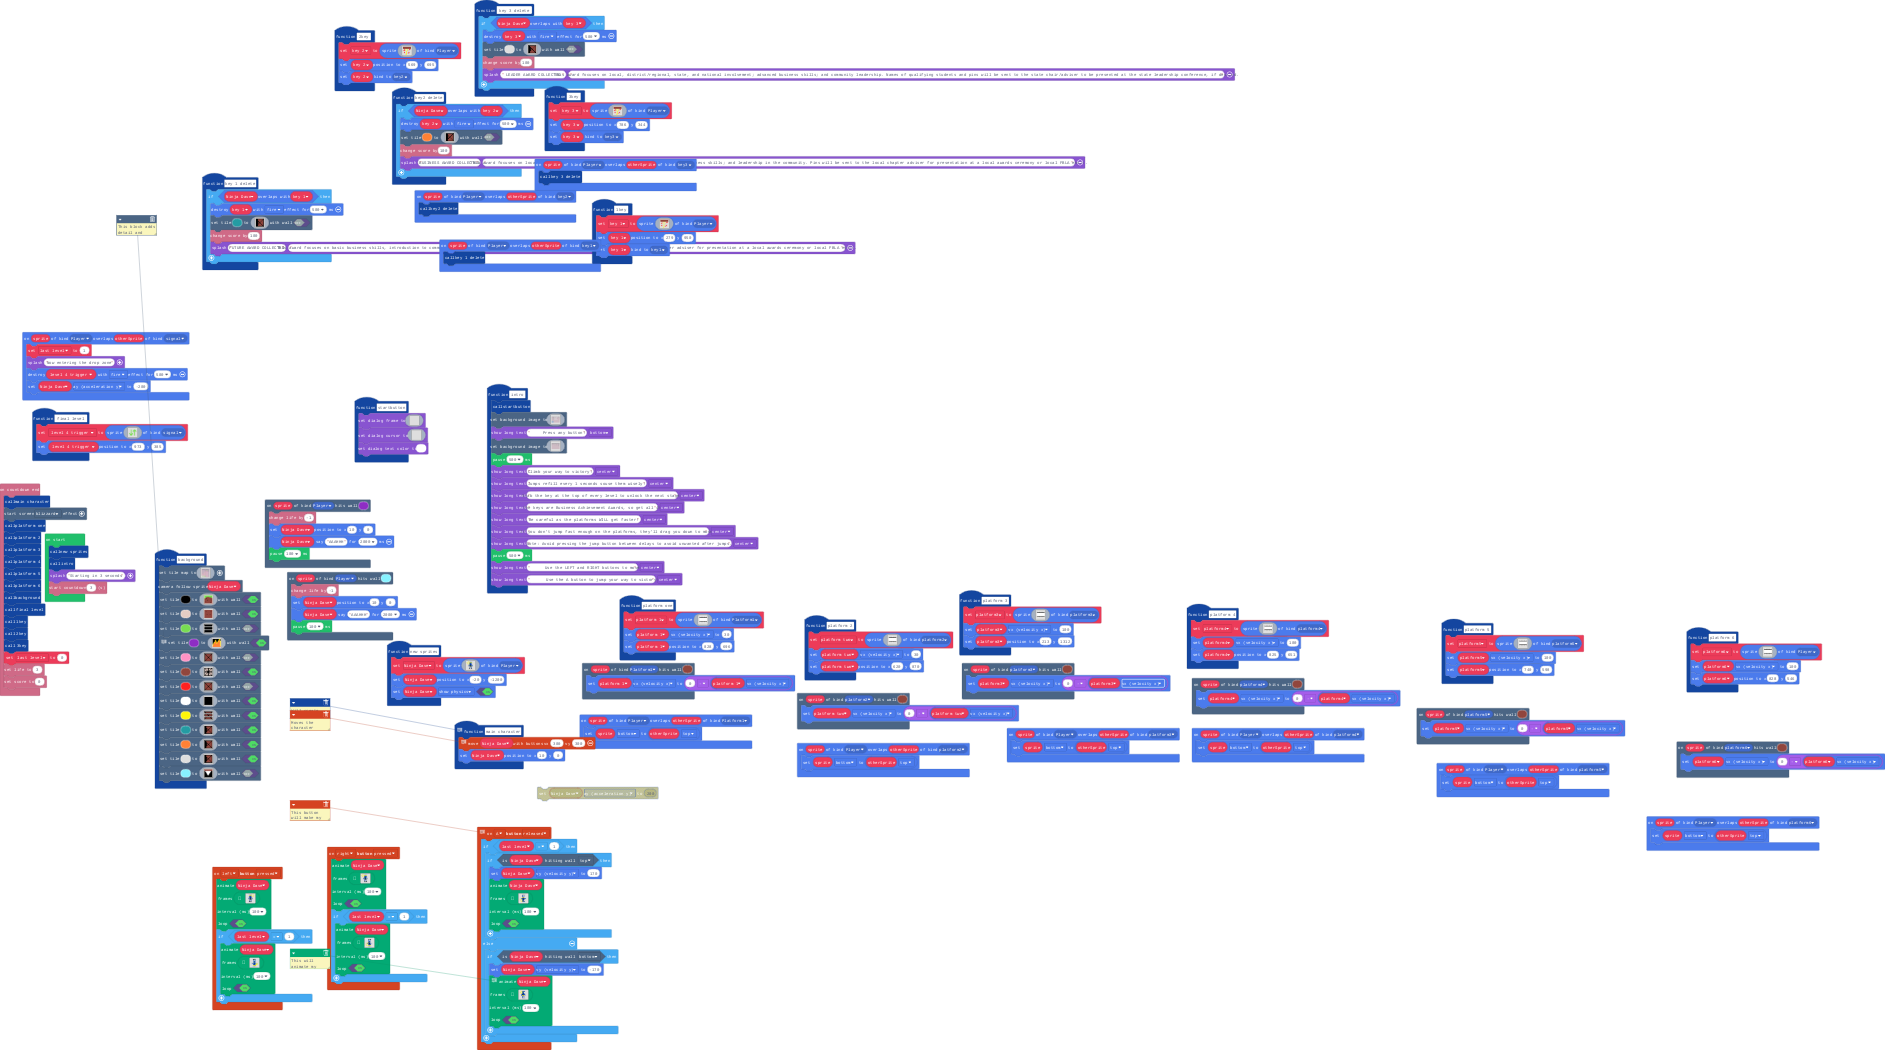
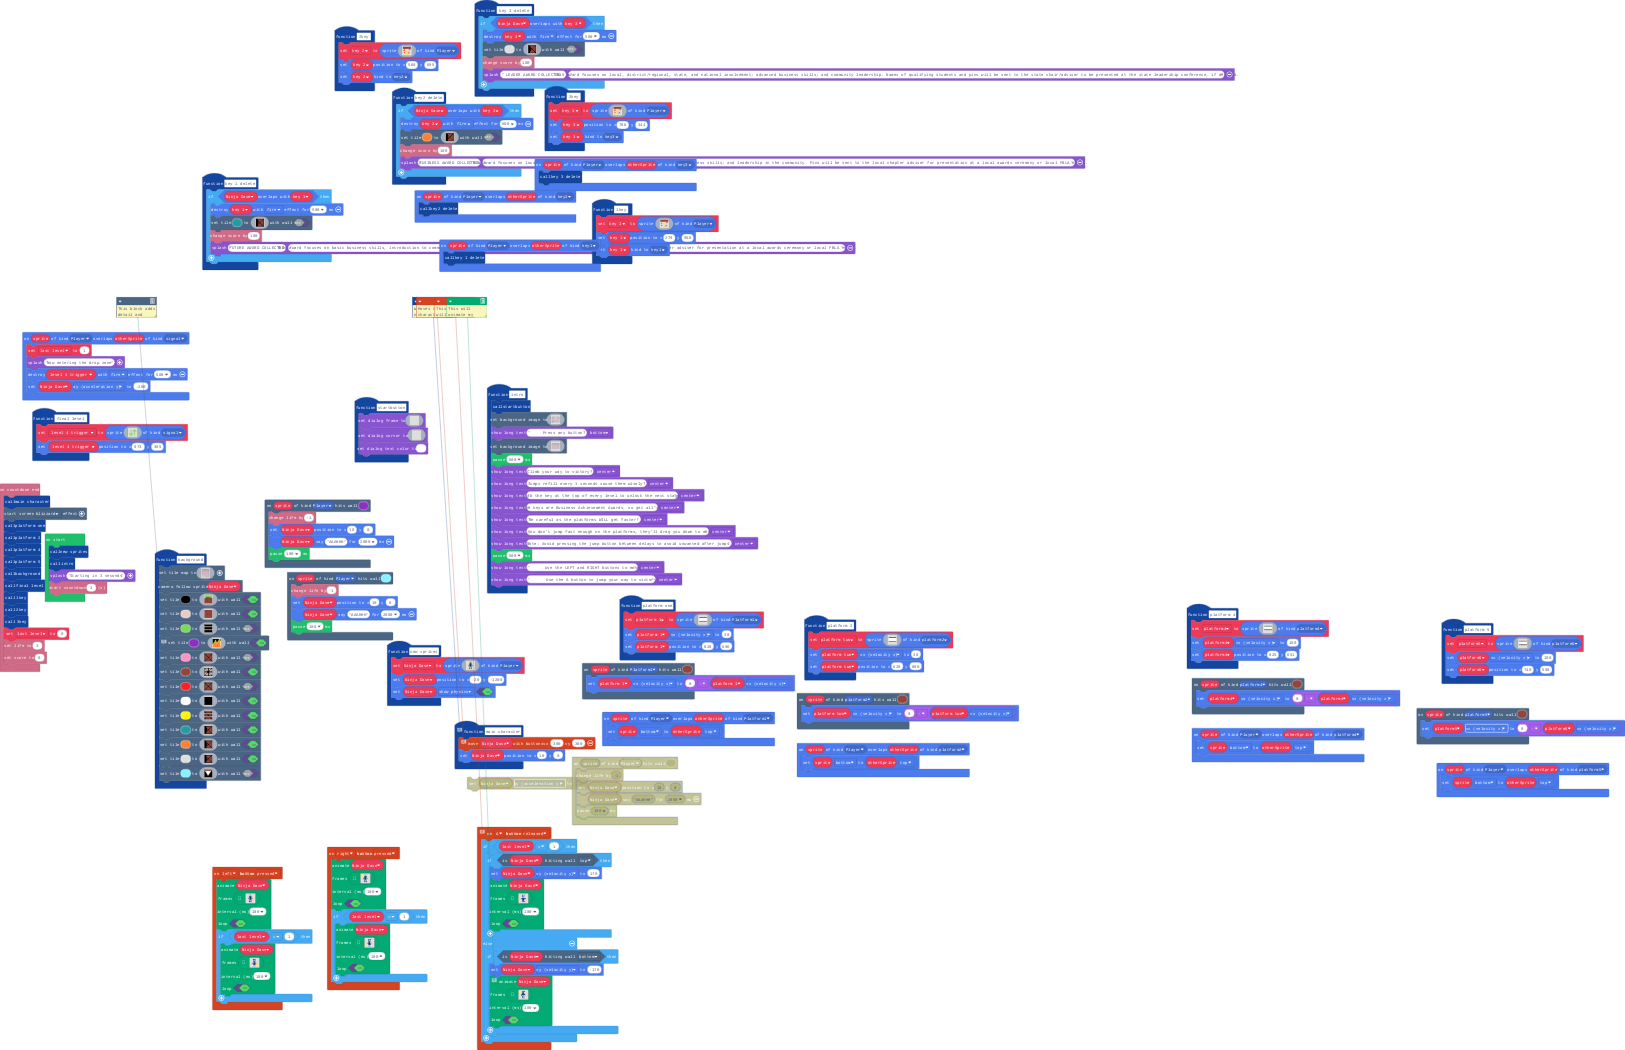
changes

diff --git a/main.ts b/main.ts
@@ -40,28 +40,6 @@ scene.onHitTile(SpriteKind.Player, 9, function (sprite) {
     Ninja_Dave.say("AAAHHH", 2000)
     pause(100)
 })
-function platform_6 () {
-    platform6 = sprites.create(img`
-. . . . . . . . . . . . . . . . 
-. . . 1 . . . . 1 . . . . 1 . . 
-. . 1 1 1 . . 1 1 1 . . 1 1 1 . 
-. f f f f f f f f f f f f f f f 
-. 1 1 1 1 1 1 1 1 1 1 1 1 1 1 1 
-. 1 1 1 1 1 1 1 1 1 1 1 1 1 1 1 
-. 1 1 1 1 1 1 1 1 1 1 1 1 1 1 1 
-. 1 1 1 1 1 1 1 1 1 1 1 1 1 1 1 
-. 1 1 1 1 1 1 1 1 1 1 1 1 1 1 1 
-. 1 1 1 1 1 1 1 1 1 1 1 1 1 1 1 
-. f f f f f f f f f f f f f f f 
-. . 1 1 1 . . 1 1 1 . . 1 1 1 . 
-. . . 1 . . . . 1 . . . . 1 . . 
-. . . . . . . . . . . . . . . . 
-. . . . . . . . . . . . . . . . 
-. . . . . . . . . . . . . . . . 
-`, SpriteKind.Player)
-    platform6.vx = 100
-    platform6.setPosition(828, 546)
-}
 sprites.onOverlap(SpriteKind.Player, SpriteKind.key3, function (sprite, otherSprite) {
     key_3_delete()
 })
@@ -165,9 +143,6 @@ f f f f f f f f f f f f f f f f
         game.splash("FUTURE AWARD COLLECTED", "This award focuses on basic business skills, introduction to community service, and FBLA involvement at the local level. Pins will be sent to the local chapter adviser for presentation at a local awards ceremony or local FBLA event.")
     }
 }
-sprites.onOverlap(SpriteKind.Player, SpriteKind.platform3, function (sprite, otherSprite) {
-    sprite.bottom = otherSprite.top
-})
 controller.left.onEvent(ControllerButtonEvent.Pressed, function () {
     animation.runImageAnimation(
     Ninja_Dave,
@@ -657,63 +632,63 @@ function background () {
 2 2 1 b b b b b b b b b b b b b b b b b b b b b b b b b b b b b b b b b b b b b b b b b b e 3 3 3 3 3 3 . 3 3 3 3 3 3 3 3 3 3 3 3 3 3 3 3 3 3 3 3 3 e b c c c c c c b b b b b b b b c c c c c b b b b b 
 2 2 1 b b b b b b b b b b b b b b b b b b b b b b b b b b b b b b b b b b b b b b b b b b e 3 3 3 3 3 3 e e e e e e e e e e e e 3 3 3 3 3 3 3 3 3 3 e b c c c c c c b b b b b b b b c c c c c b b b b b 
 2 2 1 b b b b b b b b b b b b b b b b b b b b b b b b b b b b b b b b b b b b b b b b b b e 3 3 3 3 3 3 e b b c c c c c c b c e 3 3 3 3 3 3 3 3 3 3 e b c c c c c c b b b b b b b b c c c c c b b b b b 
-2 2 1 b b b b b b b b b b b b b b b b b b b b b b b b b b b b b b b b b b b b b b b b b b e 3 3 3 3 3 5 e b b c c c c c b b c e 3 3 3 3 3 3 3 3 3 3 e b c c c c c c b b b b b b b b c c c c c b b b b b 
+2 2 1 b b b b b b b b b b b b b b b b b b b b b b b b b b b b b b b b b b b b b b b b b b e 3 3 3 3 3 5 e b b c c c c c b b c e 5 3 3 3 3 3 3 3 3 3 e b c c c c c c b b b b b b b b c c c c c b b b b b 
 2 2 1 b b b b b b b b b b b b b b b b b b b b b b b b b b b b b b b b b b b b b b b b b b e 3 3 3 3 3 3 e b b c c c c c b b b e 3 3 3 3 3 3 3 3 3 3 e b c c c c c b b b b b b b b b c c c c c b b b b b 
 2 2 1 b b b b b b b b b b b b b b b b b b b b b b b b b b b b b b b b b b b b b b b b b b e 5 3 3 3 3 3 e b b c c c c c b b b e 3 3 3 3 3 3 3 3 3 3 e b c c c c c b b b b b b b b c c c c c c b b b b b 
-2 2 1 b b b b b b b b b b b b b b b b b b b b b b b b b b b b b b b b b b b b b b b b b b e 3 3 3 3 3 3 e b c c c c c c b b b e 3 3 3 3 3 3 3 3 3 3 e b c c c c c b b b b b b b b c c c c c c b b b b b 
+2 2 1 b b b b b b b b b b b b b b b b b b b b b b b b b b b b b b b b b b b b b b b b b b e 3 3 3 3 3 3 e b c c c c c c b b b e 3 3 3 3 3 3 3 3 3 5 e b c c c c c b b b b b b b b c c c c c c b b b b b 
 2 2 1 b b b b b b b b b b b b b b b b b b b b b b b b b b b b b b b b b b b b b b b b b b e 3 3 3 3 5 5 e b c c c c c c b b b e 3 3 3 3 3 3 3 3 3 3 e b c c c c c b b b b b b b b c c c c c c b b b b b 
 2 2 1 b b b b b b b b b b b b b b b b b b b b b b b b b b b b b b b b b b b b b b b b b b e 3 3 3 3 3 3 e b c c c c c c b b b e 3 3 3 3 3 3 3 3 3 3 e b c c c c c b b b b b b b b c c c c c c b b b b b 
-2 2 1 b b b b b b b b b b b b b b b b b b b b b b b b b b b b b b b b b b b b b b b b b b e 3 3 3 3 3 3 e b c c c c c c b b b e 3 3 3 3 3 3 3 3 3 3 e b c c c c c b b b b b b b b c c c c c c b b b b b 
+2 2 1 b b b b b b b b b b b b b b b b b b b b b b b b b b b b b b b b b b b b b b b b b b e 3 3 3 3 3 3 e b c c c c c c b b b e 5 3 3 3 3 3 3 3 3 3 e b c c c c c b b b b b b b b c c c c c c b b b b b 
 2 2 1 b b b b b b b b b b b b b b b b b b b b b b b b b b b b b b b b b b b b b b b b b b e 3 3 3 3 3 3 e b c c c c c b b b b e 3 3 3 3 3 3 3 3 3 3 e b c c c c c b b b b b b b b b b b b b b b b b b b 
 2 2 1 b b b b b b b b b b b b b b b b b b b b b b b b b b b b b b b b b b b b b b b b b b e 5 3 3 3 3 3 e c c c c c c b b b b e 3 3 3 3 3 3 3 3 3 3 e b c c c c c b b b b b b b b b b b b b b b b b b b 
-2 2 1 b b b b b b b b b b b b b b b b b b b b b b b b b b b b b b b b b b b b b b b b b b e 3 3 3 3 3 3 e c c c c c c b b b b e 3 3 3 3 3 3 3 3 3 3 e b c c c c c b b b b b b b b b b b b b b b b b b b 
+2 2 1 b b b b b b b b b b b b b b b b b b b b b b b b b b b b b b b b b b b b b b b b b b e 3 3 3 3 3 3 e c c c c c c b b b b e 3 3 3 3 3 3 3 3 3 5 e b c c c c c b b b b b b b b b b b b b b b b b b b 
 2 2 1 b b b b b b b b b b b b b b b b b b b b b b b b b b b b b b b b b b b b b b b b b b e 3 3 3 3 3 3 e c c c c c c b b b b e 3 3 3 3 3 3 3 3 3 3 e b c c c c c b b b b b b b b b b b b b b b b b b b 
 2 2 1 b b b b b b b b b b b b b b b b b b b b b b b b b b b b b b b b b b b b b b b b b b e 3 3 3 3 3 3 e c c c c c c b b b b e 3 3 3 3 3 3 3 3 3 3 e b b b b b b b b b b b b b b b b b b b b b b b b b 
-2 2 1 b b b b b b b b b b b b b b b b b b b b b b b b b b b b b b b b b b b b b b b b b b e 3 3 3 3 3 5 e c c c c c b b b b b e 3 3 3 3 3 3 3 3 3 3 e b b b b b b b b b b b b b b b b b b b b b b b b b 
+2 2 1 b b b b b b b b b b b b b b b b b b b b b b b b b b b b b b b b b b b b b b b b b b e 3 3 3 3 3 5 e c c c c c b b b b b e 5 3 3 3 3 3 3 3 3 3 e b b b b b b b b b b b b b b b b b b b b b b b b b 
 2 2 1 b b b b b b b b b b b b b b b b b b b b b b b b b b b b b b b b b b b b b b b b b b e 3 3 3 3 3 3 e c c c c c b b b b b e 3 3 3 3 3 3 3 3 3 3 e b b b b b b b b b b b b b b b b b b b b b b b b b 
 2 2 1 b b b b b b b b b b b b b b b b b b b b b b b b b b b b b b b b b b b b b b b b b b e 3 3 3 3 3 3 e b b b b b b b b b b e 3 3 3 3 3 3 3 3 3 3 e b b b b b b b b b b b b b b b b b b b b b b b b b 
-2 2 1 b b b b b b b b b b b b b b b b b b b b b b b b b b b b e e e e e e e e e b b b b b e 3 3 3 3 3 3 e b b b b b b b b b b e 3 3 3 3 3 3 3 3 3 3 e b b b b b b b b b b b b b b b b b b b b b b b b b 
+2 2 1 b b b b b b b b b b b b b b b b b b b b b b b b b b b b e e e e e e e e e b b b b b e 3 3 3 3 3 3 e b b b b b b b b b b e 3 3 3 3 3 5 3 3 3 3 e b b b b b b b b b b b b b b b b b b b b b b b b b 
 2 2 1 b b b b b b b b b b b b b b b b b b b b b b b b b b b b e 3 3 3 3 3 3 3 e e e e e e e 3 3 3 3 3 3 e b b b b b b b b b b e 3 3 3 3 3 3 3 3 3 3 e b b b b b b b b b b b b b b b b b b b b b b b b b 
 2 2 1 b b b b b b b b b b b b b b b b b b b b b b b b b b b b e 3 3 3 3 3 3 3 4 3 3 3 3 3 3 3 3 3 3 3 3 e b b b b b b b b b b e 3 3 3 3 3 3 3 3 3 3 e b b b b b b b b b b b b b b b b b b b b b b b b b 
 2 2 1 b b b b b b b b b b b b b b b b b b b b b b b b b b b b e 3 3 3 3 3 3 3 4 3 3 3 3 3 3 3 3 3 3 3 3 e b b b b b b b b b b e 3 3 3 3 3 3 3 3 3 3 e b b b b b b b b b b b b b b b b b b b b b b b b b 
 2 2 1 b b b b b b b b b b b b b b b b b b b b b b b b b b b b e 3 3 3 3 3 3 3 e e e e e e e 3 3 3 3 3 3 e b b b b b b b b b b e 3 3 3 3 3 3 3 3 3 3 e b b b b b b b b b b b b b b b b b b b b b b b b b 
-2 2 1 b b b b b b b b b b b b b b b b b b b b b b b b b b b b e 5 3 3 3 3 3 5 e b b b b b e 3 3 3 3 3 3 e b b b b b b b b b b e 3 3 3 3 3 3 3 3 3 3 e b b b b b b b b b b b b b b b b b b b b b b b b b 
+2 2 1 b b b b b b b b b b b b b b b b b b b b b b b b b b b b e 5 3 3 3 3 3 5 e b b b b b e 3 3 3 3 3 3 e b b b b b b b b b b e 3 3 3 3 3 3 3 3 3 5 e b b b b b b b b b b b b b b b b b b b b b b b b b 
 2 2 1 b b b b b b b b b b b b b b b b b b b b b b b b b b b b e 3 3 3 3 3 3 3 e b b b b b e 5 3 3 3 3 3 e b b b b b b b b b b e 3 3 3 3 3 3 3 3 3 3 e b b b b b b b b b b b b b b b b b b b b b b b b b 
 2 2 1 b b b b b b b b b b b b b b b b b b b b b b b b b b b b e 3 3 3 3 3 3 3 e b b b b b e 3 3 3 3 3 3 e b b b b b b b b b b e 3 3 3 3 3 3 3 3 3 3 e b b b b b b b b b b b b b b b b b b b b b b b b b 
 2 2 1 b b b b b b b b b b b b b b b b b b b b b b b b b b b b e 5 3 3 3 3 3 5 e b b b b b e 3 3 3 3 3 5 e b b b b b b b b b b e 3 3 3 3 3 3 3 3 3 3 e b b b b b b b b b b b b b b b b b b b b b b b b b 
-2 2 1 b b b b b b b b b b b b b b b b b b b b b b b b b b b b e 3 3 3 3 3 3 3 e b b b b b e 3 3 3 3 3 3 e b b b b b b b b b b e 3 3 3 3 3 3 3 3 3 3 e b b b b b b b b b b b b b b b b b b b b b b b b b 
+2 2 1 b b b b b b b b b b b b b b b b b b b b b b b b b b b b e 3 3 3 3 3 3 3 e b b b b b e 3 3 3 3 3 3 e b b b b b b b b b b e 3 3 3 3 3 3 5 3 3 3 e b b b b b b b b b b b b b b b b b b b b b b b b b 
 2 2 1 b b b b b b b b b b b b b b b b b b b b b b b b b b b b e 3 3 3 3 3 3 3 e b b b b b e 5 3 3 3 3 3 e b b b b b b b b b b e 3 3 3 3 3 3 3 3 3 3 e b b b b b b b b b b b b b b b b b b b b b b b b b 
-2 2 1 b b b b b b b b b b b b b b b b b b b b b b b b b b b b e 3 3 3 3 3 3 3 e b b b b b e 3 3 3 3 3 3 e b b b b b b b b b b e 3 3 3 3 3 3 3 3 3 3 e b b b b b b b b b b b b b b b b b b b b b b b b b 
 2 2 1 b b b b b b b b b b b b b b b b b b b b b b b b b b b b e 5 3 3 3 3 3 3 e b b b b b e 3 3 3 3 3 3 e b b b b b b b b b b e 3 3 3 3 3 3 3 3 3 3 e b b b b b b b b b b b b b b b b b b b b b b b b b 
+2 2 1 b b b b b b b b b b b b b b b b b b b b b b b b b b b b e 3 3 3 3 3 3 3 e b b b b b e 3 3 3 3 3 3 e b b b b b b b b b b e 3 3 5 3 3 3 3 3 3 3 e b b b b b b b b b b b b b b b b b b b b b b b b b 
 2 2 1 b b b b b b b b b b b b b b b b b b b b b b b b b b b b e 3 3 3 3 3 3 3 e b b b b b e 3 3 3 3 3 5 e b b b b b b b b b b e 3 3 3 3 3 3 3 3 3 3 e b b b b b b b b b b b b b b b b b b b b b b b b b 
 2 2 1 b b b b b b b b b b b b b b b b b b b b b b b b b b b b e 3 3 3 3 3 3 5 e b b b b b e 3 3 3 3 3 3 e b b b b b b b b b b e 3 3 3 3 3 3 3 3 3 3 e b b b b b b b b b b b b b b b b b b b b b b b b b 
-2 2 1 b b b b b b b b b b b b b b b b b b b b b b b b b b b b e 3 3 3 3 3 3 3 e b b b b b e 5 3 3 3 3 3 e b b b b b b b b b b e 3 3 3 3 3 3 3 3 3 3 e b b b b b b b b b b b b b b b b b b b b b b b b b 
-2 2 1 b b b b b b b b b e e e e e e e e e e b b b b b b b b b e 5 3 3 3 3 3 3 e b b b b b e 3 3 3 3 3 3 e b b b b b b b b b b e 3 3 3 3 3 3 3 3 3 3 e b b b b b b b b b b b b b b b b b b b b b b b b b 
+2 2 1 b b b b b b b b b b b b b b b b b b b b b b b b b b b b e 3 3 3 3 3 3 3 e b b b b b e 5 3 3 3 3 3 e b b b b b b b b b b e 3 3 3 3 3 3 5 3 3 3 e b b b b b b b b b b b b b b b b b b b b b b b b b 
+2 2 1 b b b b b b b b b e e e e e e e e e e b b b b b b b b b e 3 3 3 3 3 3 3 e b b b b b e 3 3 3 3 3 3 e b b b b b b b b b b e 3 3 3 3 3 3 3 3 3 3 e b b b b b b b b b b b b b b b b b b b b b b b b b 
 2 2 1 b b b b b b b b b e 3 3 3 3 3 3 3 3 e b b b b b b b b b e 3 3 3 3 3 3 3 e b b b b b e 3 3 3 3 3 3 e b b b b b b b b b b e 3 3 3 3 3 3 3 3 3 3 e b b b b b b b b b b b b b b b b b b b b b b b b b 
-2 2 1 b b b b b b b b b e 3 3 3 3 3 3 3 3 e e e e e e e e e e e 3 3 3 3 3 3 3 e b b b b b e 3 3 3 3 3 5 e b b b b b b b b b b e 3 3 3 3 3 3 3 3 3 3 e b b b b b b b b b b b b b b b b b b b b b b b b b 
-2 2 1 b b b b b b b b b e 3 3 3 3 3 3 3 3 6 3 3 3 3 3 3 3 3 3 3 3 3 3 3 3 3 5 e b b b b b e 3 3 3 3 3 3 e b b b b b b b b b b e 3 3 3 3 3 3 3 3 3 3 e b b b b b b b b b b b b b b b b b b b b b b b b b 
+2 2 1 b b b b b b b b b e 3 3 3 3 3 3 3 3 e e e e e e e e e e e 5 3 3 3 3 3 3 e b b b b b e 3 3 3 3 3 5 e b b b b b b b b b b e 3 3 3 3 3 3 3 3 3 3 e b b b b b b b b b b b b b b b b b b b b b b b b b 
+2 2 1 b b b b b b b b b e 3 3 3 3 3 3 3 3 6 3 3 3 3 3 3 3 3 3 3 3 3 3 3 3 3 5 e b b b b b e 3 3 3 3 3 3 e b b b b b b b b b b e 3 3 5 3 3 3 3 3 3 3 e b b b b b b b b b b b b b b b b b b b b b b b b b 
 2 2 1 b b b b b b b b b e 5 3 3 3 3 3 3 3 6 3 3 3 3 3 3 3 3 3 3 3 3 3 3 3 3 3 e b b b b b e 3 3 3 3 3 3 e b b b b b b b b b b e 3 3 3 3 3 3 3 3 3 3 e b b b b b b b b b b b b b b b b b b b b b b b b b 
 2 2 1 b b b b b b b b b e 3 3 3 3 3 3 3 3 e e e e e e e e e e e 3 3 3 3 3 3 3 e b b b b b e 3 3 3 5 3 3 e b b b b b b b b b b e 3 3 3 3 3 3 3 3 3 3 e b b b b b b b b b b b b b b b b b b b b b b b b b 
 2 2 1 b b b b b b b b b e 3 3 3 3 3 3 3 3 e b b b b b b b b b e 3 3 3 3 3 3 3 e b b b b b e 3 3 3 3 3 3 e b b b b b b b b b b e 3 3 3 3 3 3 3 3 3 3 e b b b b b b b b b b b b b b b b b b b b b b b b b 
 2 2 1 b b b b b b b b b e 3 3 3 3 3 3 3 5 e b b b b b b b b b e 5 3 3 3 3 3 3 e b b b b b e 3 3 3 3 3 3 e b b b b b b b b b b e 3 3 3 3 3 3 3 3 3 3 e b b b b b b b b b b b b b b b b b b b b b b b b b 
-2 2 1 b b b b b b b b b e 3 3 3 3 3 3 3 3 e b b b b b b b b b e 3 3 3 3 3 3 5 e b b b b b e 3 3 3 3 3 3 e b b b b b b b b b b e 3 3 3 3 3 3 3 3 3 3 e b b b b b b b b b b b b b b b b b b b b b b b b b 
+2 2 1 b b b b b b b b b e 3 3 3 3 3 3 3 3 e b b b b b b b b b e 3 3 3 3 3 3 5 e b b b b b e 3 3 3 3 3 3 e b b b b b b b b b b e 3 3 3 3 3 5 3 3 3 3 e b b b b b b b b b b b b b b b b b b b b b b b b b 
 2 2 1 b b b b b b b b b e 5 5 3 3 3 3 3 3 e b b b b b b b b b e 3 3 3 3 3 3 3 e b b b b b e 3 3 3 3 3 3 e b b b b b b b b b b e 3 3 3 3 3 3 3 3 3 3 e b b b b b b b b b b b b b b b b b b b b b b b b b 
 2 2 1 b b b b b b b b b e 3 3 3 3 3 3 3 3 e b b b b b b b b b e 3 3 3 3 3 3 3 e b b b b b e 3 3 3 3 3 3 e b b b b b b b b b b e 3 3 3 3 3 3 3 3 3 3 e b b b b b b b b b b b b b b b b b b b b b b b b b 
-2 2 1 b b b b b b b b b e 3 3 3 3 3 3 3 3 e b b b b b b b b b e 5 3 3 3 3 3 3 e b b b b b e 3 3 3 3 3 3 e b b b b b b b b b b e 3 3 3 3 3 3 3 3 3 3 e b b b b b b b b b b b b b b b b b b b b b b b b b 
+2 2 1 b b b b b b b b b e 3 3 3 3 3 3 3 3 e b b b b b b b b b e 5 3 3 3 3 3 3 e b b b b b e 3 3 3 3 3 3 e b b b b b b b b b b e 3 3 3 3 3 3 3 3 3 5 e b b b b b b b b b b b b b b b b b b b b b b b b b 
 2 2 1 b b b b b b b b b e 3 3 3 3 3 3 3 3 e b b b b b b b b b e 3 3 3 3 3 3 3 e b b b b b e 3 3 3 3 3 3 e b b b b b b b b b b e 3 3 3 3 3 3 3 3 3 3 e b b b b b b b b b b b b b b b b b b b b b b b b b 
 2 2 1 b b b b b b b b b e 3 3 3 3 3 3 5 5 e b b b b b b b b b e 3 3 3 3 3 3 3 e b b b b b e 3 3 3 3 3 3 e b b b b b b b b b b e 3 3 3 3 3 3 3 3 3 3 e b b b b b b b b b b b b b b b b b b b b b b b b b 
-2 2 1 b b b b b b b b b e 3 3 3 3 3 3 3 3 e b b b b b b b b b e 3 3 3 3 3 3 3 e b b b b b e 3 3 3 3 3 3 e b b b b b b b b b b e 3 3 3 3 3 3 3 3 3 3 e b b b b b b b b b b b b b b b b b b b b b b b b b 
+2 2 1 b b b b b b b b b e 3 3 3 3 3 3 3 3 e b b b b b b b b b e 3 3 3 3 3 3 3 e b b b b b e 3 3 3 3 3 3 e b b b b b b b b b b e 3 3 3 3 3 5 3 3 3 3 e b b b b b b b b b b b b b b b b b b b b b b b b b 
 2 2 1 b b b b b b b b b e 5 5 3 3 3 3 3 3 e b b b b b b b b b e 3 3 3 3 3 3 3 e b b b b b e 3 3 3 3 3 3 e b b b b b b b b b b e 3 3 3 3 3 3 3 3 3 3 e b b b b b b b b b b b b b b b b b b b b b b b b b 
 2 2 1 b b b b b b b b b e 3 3 3 3 3 3 3 3 e b b b b b b b b b e 3 3 3 3 3 3 5 e b b b b b e 3 3 3 3 3 3 e b b b b b b b b b b e 3 3 3 3 3 3 3 3 3 3 e b b b b b b b b b b b b b b b b b b b b b b b b b 
 2 2 1 b b b b b b b b b e 3 3 3 3 3 3 3 3 e b b b b b b b b b e 3 3 3 3 3 3 3 e b b b b b e 3 3 3 3 3 3 e b b b b b b b b b b e 3 3 3 3 3 3 3 3 3 3 e b b b b b b b b b b b b b b b b b b b b b b b b b 
-2 2 1 b b b b b b b b b e 3 3 3 3 3 3 5 5 e b b b b b b b b b e 3 3 3 3 3 3 3 e b b b b b e 3 3 3 3 3 3 e b b b b b b b b b b e 3 3 3 3 3 3 3 3 3 3 e b b b b b b b b b b b b b b b b b b b b b b b b b 
+2 2 1 b b b b b b b b b e 3 3 3 3 3 3 5 5 e b b b b b b b b b e 3 3 3 3 3 3 3 e b b b b b e 3 3 3 3 3 3 e b b b b b b b b b b e 5 3 3 3 3 3 3 3 3 3 e b b b b b b b b b b b b b b b b b b b b b b b b b 
 2 2 1 b b b b b b b b b e 3 3 3 3 3 3 3 3 e b b b b b b b b b e 3 3 3 5 3 3 3 e b b b b b e 3 3 3 3 3 3 e b b b b b b b b b b e 3 3 3 3 3 3 3 3 3 3 e b b b b b b b b b b b b b b b b b b b b b b b b b 
 2 2 b b b b b b b b b b b 3 3 3 3 3 3 3 3 e b b b b b b b b b e 3 3 3 3 3 3 3 e b b b b b e 3 3 3 3 3 3 e b b b b b b b b b b e 3 3 3 3 3 3 3 3 3 3 e b b b b b b b b b b b b b b b b b b b b b b b b b 
-2 2 b b b b b b b b b b b 3 3 3 3 3 3 3 3 e b b b b b b b b b e 3 3 3 3 3 3 3 e b b b b b e 3 3 3 3 3 3 e b b b b b b b b b b e 3 3 3 3 3 3 3 3 3 3 e b b b b b b b b b b b b b b b b b b b b b b b b b 
+2 2 b b b b b b b b b b b 3 3 3 3 3 3 3 3 e b b b b b b b b b e 3 3 3 3 3 3 3 e b b b b b e 3 3 3 3 3 3 e b b b b b b b b b b e 3 3 3 3 3 5 3 3 3 3 e b b b b b b b b b b b b b b b b b b b b b b b b b 
 f f f f f f f f f f f f f 3 3 3 3 3 3 3 3 e f f f f f f f f f e 3 3 3 3 3 3 3 e f f f f f e 3 3 3 3 3 3 e b b b b b b b b b b e 3 3 3 3 3 3 3 3 3 3 e b b b b b b b b b b b b b b b b b b b b b b b b b 
 d d d d d d d d d d d d d 3 3 3 3 3 3 3 3 e d d d d d d d d d e 3 3 3 3 3 3 3 e d d d d d e 3 3 3 3 3 3 e b b b b b b b b b b e 3 3 3 3 3 3 3 3 3 3 e b b b b b b b b b b b b b b b b b b b b b b b b b 
 d d d d d d d d d d d d d 5 3 3 3 3 3 3 3 e d d d d d d d d d e 3 3 3 3 3 3 3 e d d d d d e 3 3 3 3 3 3 e b b b b b b b b b b e 3 3 3 3 3 3 3 3 3 3 e b b b b b b b b b b b b b b b b b b b b b b b b b 
-d d d d d d d d d d d d d 3 3 3 3 3 3 3 3 e d d d d d d d d d e 3 3 3 3 3 3 3 e d d d d d e 3 3 3 3 3 3 e b b b b b b b b b b e 3 3 3 3 3 3 3 3 3 3 e b b b b b b b b b b b b b b b b b b b b b b b b b 
+d d d d d d d d d d d d d 3 3 3 3 3 3 3 3 e d d d d d d d d d e 3 3 3 3 3 3 3 e d d d d d e 3 3 3 3 3 3 e b b b b b b b b b b e 3 3 3 3 3 3 3 3 3 5 e b b b b b b b b b b b b b b b b b b b b b b b b b 
 d d d d d d d d d d d d d 7 7 7 7 7 7 7 7 e d d d d d d d d d e 7 7 7 7 7 7 7 e d d d d d e 7 7 7 7 7 7 e b b b b b b b b b b e 3 3 3 3 3 3 3 3 3 3 e b b b b b b b b b b b b b b b b b b b b b b b b b 
 d d d d d d d d d d d d d 7 7 7 7 7 7 7 5 e d d d d d d d d d e 7 7 7 7 7 7 7 e d d d d d e 7 7 7 7 7 7 e b b b b b b b b b b e 3 3 3 3 3 3 3 3 3 3 e b b b b b b b b b b b b b b b b b b b b b b b b b 
 d d d d d d d d d d d d d 7 7 7 7 7 7 7 7 e d d d d d d d d d e 7 7 7 7 7 7 7 e d d d d d e 7 7 7 7 7 7 e b b b b b b b b b b e 3 3 3 3 3 3 3 3 3 3 e b b b b b b b b b b b b b b b b b b b b b b b b b 
@@ -1028,9 +1003,6 @@ e e e e e e e e e e e e e e e e
     key_1.setPosition(279, 950)
     key_1.setKind(SpriteKind.key1)
 }
-sprites.onOverlap(SpriteKind.Player, SpriteKind.platform6, function (sprite, otherSprite) {
-    sprite.bottom = otherSprite.top
-})
 function platform_2 () {
     platform_two = sprites.create(img`
 . . . . . . . . . . . . . . . . 
@@ -1051,7 +1023,7 @@ function platform_2 () {
 . . . . . . . . . . . . . . . . 
 `, SpriteKind.platform2)
     platform_two.vx = 30
-    platform_two.setPosition(620, 870)
+    platform_two.setPosition(620, 880)
 }
 scene.onHitTile(SpriteKind.Player, 10, function (sprite) {
     info.changeLifeBy(-1)
@@ -1250,9 +1222,6 @@ function platform_one () {
     platform_1.vx = 30
     platform_1.setPosition(828, 696)
 }
-scene.onHitTile(SpriteKind.platform6, 14, function (sprite) {
-    platform6.vx = 0 - platform6.vx
-})
 scene.onHitTile(SpriteKind.platform2, 14, function (sprite) {
     platform_two.vx = 0 - platform_two.vx
 })
@@ -1261,10 +1230,8 @@ info.onCountdownEnd(function () {
     effects.blizzard.startScreenEffect()
     platform_one()
     platform_2()
-    platform_3()
     platform_4()
     platform_5()
-    platform_6()
     background()
     final_level()
     _1key()
@@ -1317,28 +1284,6 @@ function platform_5 () {
 `, SpriteKind.platform5)
     platform5.vx = 100
     platform5.setPosition(740, 598)
-}
-function platform_3 () {
-    platform3 = sprites.create(img`
-. . . . . . . . . . . . . . . . 
-. . . 1 . . . . 1 . . . . 1 . . 
-. . 1 1 1 . . 1 1 1 . . 1 1 1 . 
-. f f f f f f f f f f f f f f f 
-. 1 1 1 1 1 1 1 1 1 1 1 1 1 1 1 
-. 1 1 1 1 1 1 1 1 1 1 1 1 1 1 1 
-. 1 1 1 1 1 1 1 1 1 1 1 1 1 1 1 
-. 1 1 1 1 1 1 1 1 1 1 1 1 1 1 1 
-. 1 1 1 1 1 1 1 1 1 1 1 1 1 1 1 
-. 1 1 1 1 1 1 1 1 1 1 1 1 1 1 1 
-. f f f f f f f f f f f f f f f 
-. . 1 1 1 . . 1 1 1 . . 1 1 1 . 
-. . . 1 . . . . 1 . . . . 1 . . 
-. . . . . . . . . . . . . . . . 
-. . . . . . . . . . . . . . . . 
-. . . . . . . . . . . . . . . . 
-`, SpriteKind.platform3)
-    platform3.vx = 100
-    platform3.setPosition(213, 1312)
 }
 // This button will make my main character jump
 controller.A.onEvent(ControllerButtonEvent.Released, function () {
@@ -1635,11 +1580,7 @@ function final_level () {
 sprites.onOverlap(SpriteKind.Player, SpriteKind.key1, function (sprite, otherSprite) {
     key_1_delete()
 })
-scene.onHitTile(SpriteKind.platform3, 14, function (sprite) {
-    platform3.vx = 0 - platform3.vx
-})
 let level_4_trigger: Sprite = null
-let platform3: Sprite = null
 let platform_two: Sprite = null
 let platform5: Sprite = null
 let last_level = 0
@@ -1647,7 +1588,6 @@ let key_1: Sprite = null
 let key_3: Sprite = null
 let platform4: Sprite = null
 let key_2: Sprite = null
-let platform6: Sprite = null
 let Ninja_Dave: Sprite = null
 let platform_1: Sprite = null
 new_sprites()
